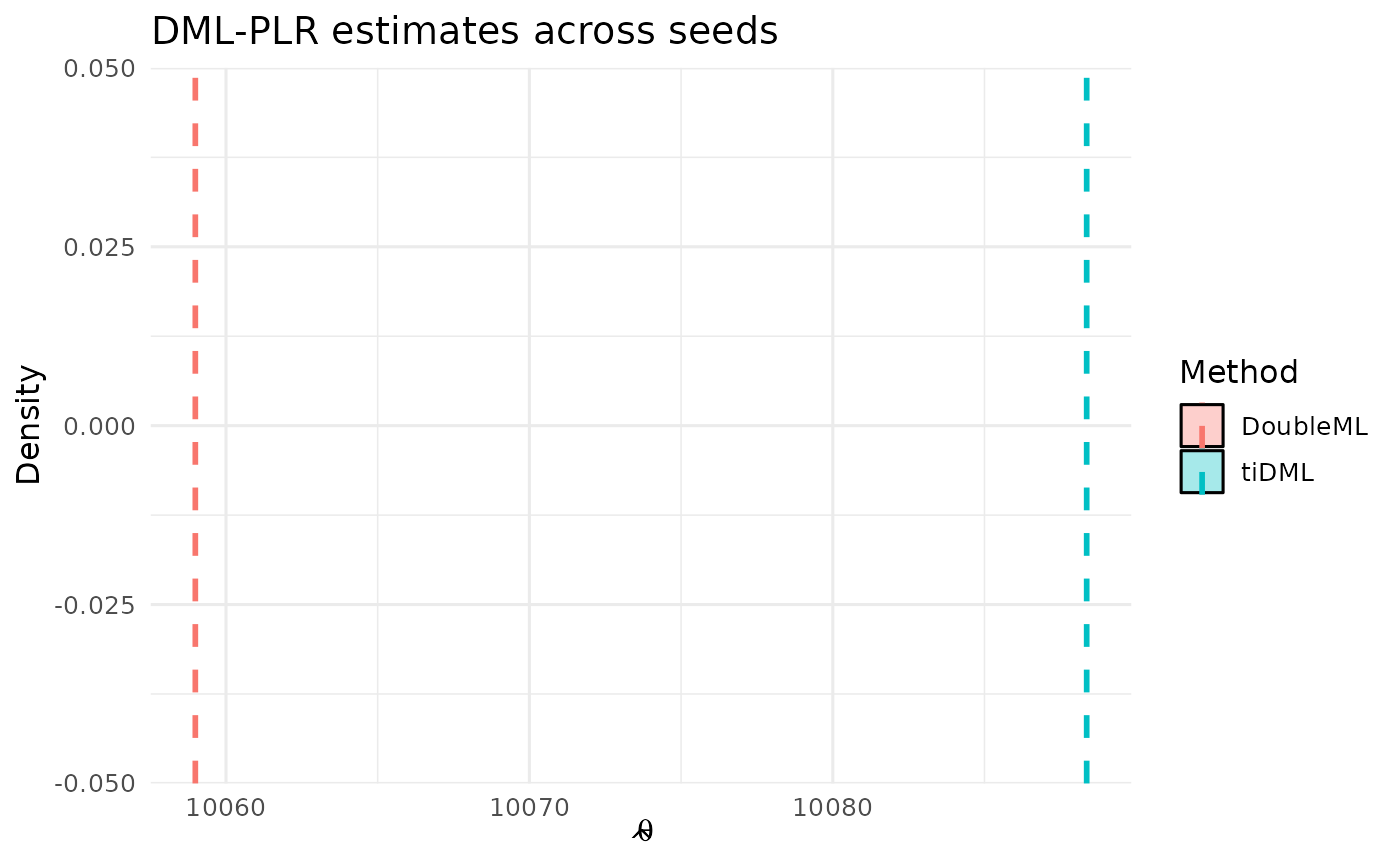
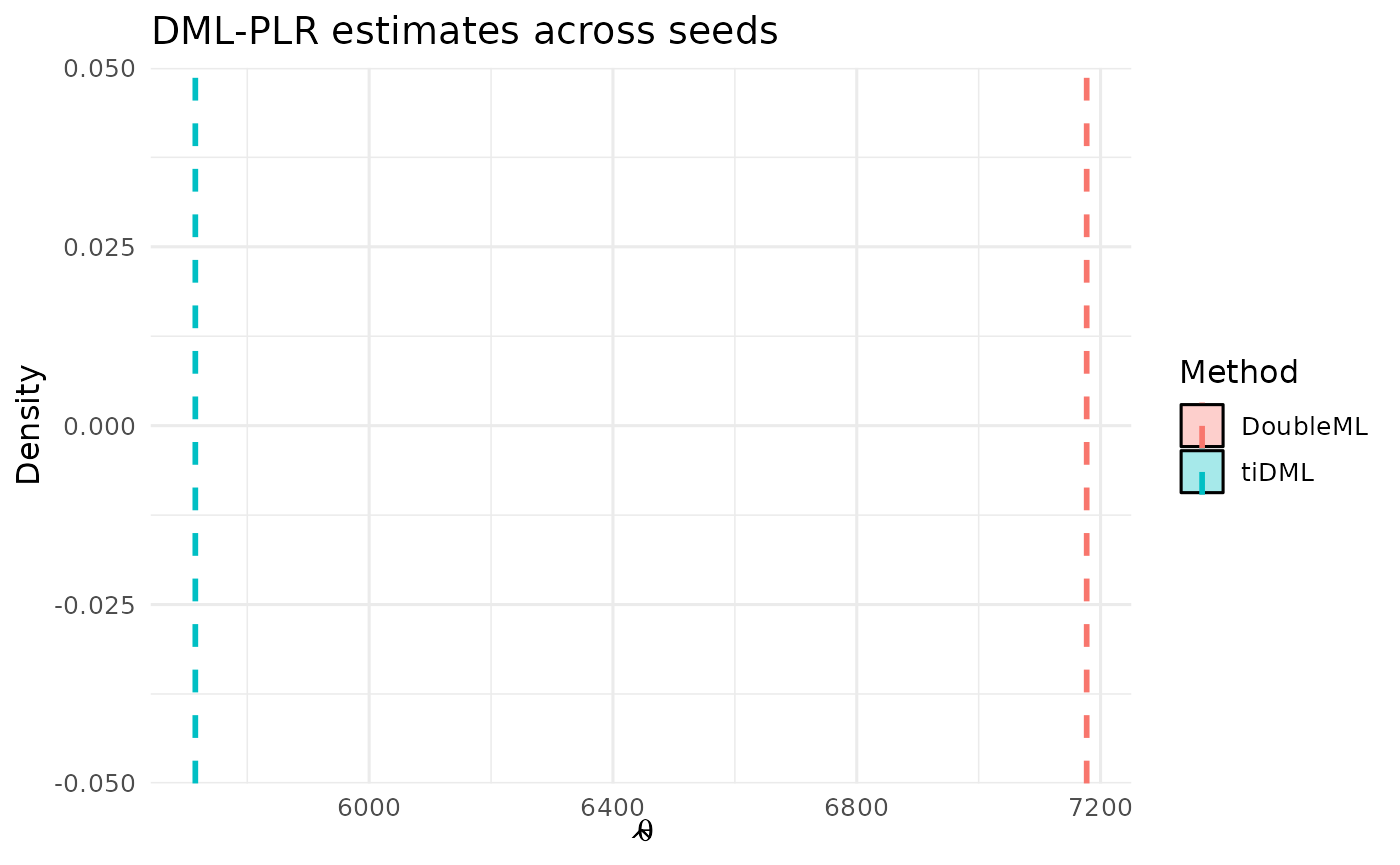
Deploying to gh-pages from @ jberesford-fe/tiDML@927d3ba213c65b5c6e1c258e8f15b4693d7bd3ad 🚀

diff --git a/articles/package-replication.html b/articles/package-replication.html
@@ -34,7 +34,6 @@
 
     <div id="navbar" class="collapse navbar-collapse ms-3">
       <ul class="navbar-nav me-auto">
-<li class="nav-item"><a class="nav-link" href="../articles/tiDML.html">Get started</a></li>
 <li class="nav-item"><a class="nav-link" href="../reference/index.html">Reference</a></li>
 <li class="active nav-item dropdown">
   <button class="nav-link dropdown-toggle" type="button" id="dropdown-articles" data-bs-toggle="dropdown" aria-expanded="false" aria-haspopup="true">Articles</button>
@@ -104,7 +103,7 @@ specifications.</p>
 <span><span class="kw"><a href="https://rdrr.io/r/base/library.html" class="external-link">library</a></span><span class="op">(</span><span class="va"><a href="https://mlr3learners.mlr-org.com" class="external-link">mlr3learners</a></span><span class="op">)</span></span>
 <span></span>
 <span><span class="va">df401k</span> <span class="op">&lt;-</span> <span class="fu">DoubleML</span><span class="fu">::</span><span class="fu"><a href="https://rdrr.io/pkg/DoubleML/man/fetch_401k.html" class="external-link">fetch_401k</a></span><span class="op">(</span>return_type <span class="op">=</span> <span class="st">"data.frame"</span>, instrument <span class="op">=</span> <span class="cn">FALSE</span><span class="op">)</span> <span class="op">|&gt;</span></span>
-<span>  <span class="fu"><a href="https://dplyr.tidyverse.org/reference/sample_n.html" class="external-link">sample_n</a></span><span class="op">(</span><span class="fl">5000</span>, replace <span class="op">=</span> <span class="cn">FALSE</span>, seed <span class="op">=</span> <span class="fl">123</span><span class="op">)</span></span>
+<span>  <span class="fu"><a href="https://dplyr.tidyverse.org/reference/sample_n.html" class="external-link">sample_n</a></span><span class="op">(</span><span class="fl">500</span>, replace <span class="op">=</span> <span class="cn">FALSE</span>, seed <span class="op">=</span> <span class="fl">123</span><span class="op">)</span></span>
 <span></span>
 <span><span class="va">y_col</span>  <span class="op">&lt;-</span> <span class="st">"net_tfa"</span>   <span class="co"># or "tw" depending on the example</span></span>
 <span><span class="va">d_col</span>  <span class="op">&lt;-</span> <span class="st">"e401"</span></span>
@@ -226,8 +225,8 @@ frame.</p>
 <span><span class="co">#&gt; <span style="color: #949494;"># A tibble: 2 × 5</span></span></span>
 <span><span class="co">#&gt;   method   mean_theta mean_se mean_lwr mean_upr</span></span>
 <span><span class="co">#&gt;   <span style="color: #949494; font-style: italic;">&lt;chr&gt;</span>         <span style="color: #949494; font-style: italic;">&lt;dbl&gt;</span>   <span style="color: #949494; font-style: italic;">&lt;dbl&gt;</span>    <span style="color: #949494; font-style: italic;">&lt;dbl&gt;</span>    <span style="color: #949494; font-style: italic;">&lt;dbl&gt;</span></span></span>
-<span><span class="co">#&gt; <span style="color: #BCBCBC;">1</span> DoubleML     <span style="text-decoration: underline;">10</span>059.   <span style="text-decoration: underline;">2</span>063.    <span style="text-decoration: underline;">6</span>015.   <span style="text-decoration: underline;">14</span>103.</span></span>
-<span><span class="co">#&gt; <span style="color: #BCBCBC;">2</span> tiDML        <span style="text-decoration: underline;">10</span>088.   <span style="text-decoration: underline;">2</span>055.    <span style="text-decoration: underline;">6</span>060.   <span style="text-decoration: underline;">14</span>117.</span></span>
+<span><span class="co">#&gt; <span style="color: #BCBCBC;">1</span> DoubleML      <span style="text-decoration: underline;">7</span>177.   <span style="text-decoration: underline;">9</span>623.  -<span style="color: #BB0000; text-decoration: underline;">11</span><span style="color: #BB0000;">683.</span>   <span style="text-decoration: underline;">26</span>037.</span></span>
+<span><span class="co">#&gt; <span style="color: #BCBCBC;">2</span> tiDML         <span style="text-decoration: underline;">5</span>715.  <span style="text-decoration: underline;">10</span>040.  -<span style="color: #BB0000; text-decoration: underline;">13</span><span style="color: #BB0000;">963.</span>   <span style="text-decoration: underline;">25</span>393.</span></span>
 <span></span>
 <span><span class="co"># T-Test for difference in means</span></span>
 <span><span class="co">#print(t.test(theta ~ method, data = res))</span></span>

diff --git a/articles/random-forest.html b/articles/random-forest.html
@@ -34,7 +34,6 @@
 
     <div id="navbar" class="collapse navbar-collapse ms-3">
       <ul class="navbar-nav me-auto">
-<li class="nav-item"><a class="nav-link" href="../articles/tiDML.html">Get started</a></li>
 <li class="nav-item"><a class="nav-link" href="../reference/index.html">Reference</a></li>
 <li class="active nav-item dropdown">
   <button class="nav-link dropdown-toggle" type="button" id="dropdown-articles" data-bs-toggle="dropdown" aria-expanded="false" aria-haspopup="true">Articles</button>
@@ -107,7 +106,7 @@
 <h2 id="random-forest-with-default-settings">Random forest with default settings<a class="anchor" aria-label="anchor" href="#random-forest-with-default-settings"></a>
 </h2>
 <div class="sourceCode" id="cb2"><pre class="downlit sourceCode r">
-<code class="sourceCode R"><span><span class="va">df</span> <span class="op">&lt;-</span> <span class="fu"><a href="../reference/diamonds_sample.html">diamonds_sample</a></span><span class="op">(</span><span class="op">)</span></span>
+<code class="sourceCode R"><span><span class="va">df</span> <span class="op">&lt;-</span> <span class="fu"><a href="../reference/diamonds_sample.html">diamonds_sample</a></span><span class="op">(</span>n<span class="op">=</span><span class="fl">500</span><span class="op">)</span></span>
 <span></span>
 <span><span class="va">fit_rf</span> <span class="op">&lt;-</span> <span class="fu"><a href="../reference/dml_rf.html">dml_rf</a></span><span class="op">(</span></span>
 <span>  data <span class="op">=</span> <span class="va">df</span>,</span>
@@ -120,7 +119,7 @@
 <span><span class="co">#&gt; <span style="color: #949494;"># A tibble: 1 × 6</span></span></span>
 <span><span class="co">#&gt;   term               estimate std.error conf.low conf.high vcov_type</span></span>
 <span><span class="co">#&gt;   <span style="color: #949494; font-style: italic;">&lt;chr&gt;</span>                 <span style="color: #949494; font-style: italic;">&lt;dbl&gt;</span>     <span style="color: #949494; font-style: italic;">&lt;dbl&gt;</span>    <span style="color: #949494; font-style: italic;">&lt;dbl&gt;</span>     <span style="color: #949494; font-style: italic;">&lt;dbl&gt;</span> <span style="color: #949494; font-style: italic;">&lt;chr&gt;</span>    </span></span>
-<span><span class="co">#&gt; <span style="color: #BCBCBC;">1</span> is_rated_idealTRUE     224.      45.4     135.      313. HC2</span></span></code></pre></div>
+<span><span class="co">#&gt; <span style="color: #BCBCBC;">1</span> is_rated_idealTRUE     149.      165.    -<span style="color: #BB0000;">174.</span>      472. HC2</span></span></code></pre></div>
 </div>
 <div class="section level2">
 <h2 id="random-forest-with-custom-settings">Random Forest with custom settings<a class="anchor" aria-label="anchor" href="#random-forest-with-custom-settings"></a>
@@ -146,7 +145,7 @@ the type of robust standard errors to use (choice of “HC0”, “HC1”,
 <span><span class="co">#&gt; <span style="color: #949494;"># A tibble: 1 × 6</span></span></span>
 <span><span class="co">#&gt;   term               estimate std.error conf.low conf.high vcov_type</span></span>
 <span><span class="co">#&gt;   <span style="color: #949494; font-style: italic;">&lt;chr&gt;</span>                 <span style="color: #949494; font-style: italic;">&lt;dbl&gt;</span>     <span style="color: #949494; font-style: italic;">&lt;dbl&gt;</span>    <span style="color: #949494; font-style: italic;">&lt;dbl&gt;</span>     <span style="color: #949494; font-style: italic;">&lt;dbl&gt;</span> <span style="color: #949494; font-style: italic;">&lt;chr&gt;</span>    </span></span>
-<span><span class="co">#&gt; <span style="color: #BCBCBC;">1</span> is_rated_idealTRUE     200.      45.1     111.      288. HC2</span></span></code></pre></div>
+<span><span class="co">#&gt; <span style="color: #BCBCBC;">1</span> is_rated_idealTRUE     187.      154.    -<span style="color: #BB0000;">114.</span>      487. HC2</span></span></code></pre></div>
 </div>
   </main><aside class="col-md-3"><nav id="toc" aria-label="Table of contents"><h2>On this page</h2>
     </nav></aside>

diff --git a/articles/examine-outputs.html b/articles/examine-outputs.html
@@ -34,7 +34,6 @@
 
     <div id="navbar" class="collapse navbar-collapse ms-3">
       <ul class="navbar-nav me-auto">
-<li class="nav-item"><a class="nav-link" href="../articles/tiDML.html">Get started</a></li>
 <li class="nav-item"><a class="nav-link" href="../reference/index.html">Reference</a></li>
 <li class="active nav-item dropdown">
   <button class="nav-link dropdown-toggle" type="button" id="dropdown-articles" data-bs-toggle="dropdown" aria-expanded="false" aria-haspopup="true">Articles</button>
@@ -241,7 +240,7 @@ This combines pre-processing (<code>recipes</code>) and model fitting
 <span><span class="co">#&gt; $mtry</span></span>
 <span><span class="co">#&gt; <span style="font-weight: bold;">&lt;quosure&gt;</span></span></span>
 <span><span class="co">#&gt; expr: <span style="color: #0000BB;">^mtry_g</span></span></span>
-<span><span class="co">#&gt; env:  <span style="color: #0000BB;">0x563335a9a908</span></span></span>
+<span><span class="co">#&gt; env:  <span style="color: #0000BB;">0x5581826665a0</span></span></span>
 <span><span class="co">#&gt; </span></span>
 <span><span class="co">#&gt; $trees</span></span>
 <span><span class="co">#&gt; <span style="font-weight: bold;">&lt;quosure&gt;</span></span></span>

diff --git a/reference/dml_nnet.html b/reference/dml_nnet.html
@@ -17,8 +17,7 @@ and normalizes numeric predictors (recommended for NNs)."><meta property="og:ima
     </button>
 
     <div id="navbar" class="collapse navbar-collapse ms-3">
-      <ul class="navbar-nav me-auto"><li class="nav-item"><a class="nav-link" href="../articles/tiDML.html">Get started</a></li>
-<li class="active nav-item"><a class="nav-link" href="../reference/index.html">Reference</a></li>
+      <ul class="navbar-nav me-auto"><li class="active nav-item"><a class="nav-link" href="../reference/index.html">Reference</a></li>
 <li class="nav-item dropdown">
   <button class="nav-link dropdown-toggle" type="button" id="dropdown-articles" data-bs-toggle="dropdown" aria-expanded="false" aria-haspopup="true">Articles</button>
   <ul class="dropdown-menu" aria-labelledby="dropdown-articles"><li><hr class="dropdown-divider"></li>

diff --git a/reference/diamonds_sample.html b/reference/diamonds_sample.html
@@ -15,8 +15,7 @@
     </button>
 
     <div id="navbar" class="collapse navbar-collapse ms-3">
-      <ul class="navbar-nav me-auto"><li class="nav-item"><a class="nav-link" href="../articles/tiDML.html">Get started</a></li>
-<li class="active nav-item"><a class="nav-link" href="../reference/index.html">Reference</a></li>
+      <ul class="navbar-nav me-auto"><li class="active nav-item"><a class="nav-link" href="../reference/index.html">Reference</a></li>
 <li class="nav-item dropdown">
   <button class="nav-link dropdown-toggle" type="button" id="dropdown-articles" data-bs-toggle="dropdown" aria-expanded="false" aria-haspopup="true">Articles</button>
   <ul class="dropdown-menu" aria-labelledby="dropdown-articles"><li><hr class="dropdown-divider"></li>

diff --git a/reference/dml_core_wf.html b/reference/dml_core_wf.html
@@ -15,8 +15,7 @@
     </button>
 
     <div id="navbar" class="collapse navbar-collapse ms-3">
-      <ul class="navbar-nav me-auto"><li class="nav-item"><a class="nav-link" href="../articles/tiDML.html">Get started</a></li>
-<li class="active nav-item"><a class="nav-link" href="../reference/index.html">Reference</a></li>
+      <ul class="navbar-nav me-auto"><li class="active nav-item"><a class="nav-link" href="../reference/index.html">Reference</a></li>
 <li class="nav-item dropdown">
   <button class="nav-link dropdown-toggle" type="button" id="dropdown-articles" data-bs-toggle="dropdown" aria-expanded="false" aria-haspopup="true">Articles</button>
   <ul class="dropdown-menu" aria-labelledby="dropdown-articles"><li><hr class="dropdown-divider"></li>

diff --git a/reference/dml_rf.html b/reference/dml_rf.html
@@ -15,8 +15,7 @@
     </button>
 
     <div id="navbar" class="collapse navbar-collapse ms-3">
-      <ul class="navbar-nav me-auto"><li class="nav-item"><a class="nav-link" href="../articles/tiDML.html">Get started</a></li>
-<li class="active nav-item"><a class="nav-link" href="../reference/index.html">Reference</a></li>
+      <ul class="navbar-nav me-auto"><li class="active nav-item"><a class="nav-link" href="../reference/index.html">Reference</a></li>
 <li class="nav-item dropdown">
   <button class="nav-link dropdown-toggle" type="button" id="dropdown-articles" data-bs-toggle="dropdown" aria-expanded="false" aria-haspopup="true">Articles</button>
   <ul class="dropdown-menu" aria-labelledby="dropdown-articles"><li><hr class="dropdown-divider"></li>

diff --git a/reference/index.html b/reference/index.html
@@ -15,8 +15,7 @@
     </button>
 
     <div id="navbar" class="collapse navbar-collapse ms-3">
-      <ul class="navbar-nav me-auto"><li class="nav-item"><a class="nav-link" href="../articles/tiDML.html">Get started</a></li>
-<li class="active nav-item"><a class="nav-link" href="../reference/index.html">Reference</a></li>
+      <ul class="navbar-nav me-auto"><li class="active nav-item"><a class="nav-link" href="../reference/index.html">Reference</a></li>
 <li class="nav-item dropdown">
   <button class="nav-link dropdown-toggle" type="button" id="dropdown-articles" data-bs-toggle="dropdown" aria-expanded="false" aria-haspopup="true">Articles</button>
   <ul class="dropdown-menu" aria-labelledby="dropdown-articles"><li><hr class="dropdown-divider"></li>

diff --git a/reference/make_folds.html b/reference/make_folds.html
@@ -15,8 +15,7 @@
     </button>
 
     <div id="navbar" class="collapse navbar-collapse ms-3">
-      <ul class="navbar-nav me-auto"><li class="nav-item"><a class="nav-link" href="../articles/tiDML.html">Get started</a></li>
-<li class="active nav-item"><a class="nav-link" href="../reference/index.html">Reference</a></li>
+      <ul class="navbar-nav me-auto"><li class="active nav-item"><a class="nav-link" href="../reference/index.html">Reference</a></li>
 <li class="nav-item dropdown">
   <button class="nav-link dropdown-toggle" type="button" id="dropdown-articles" data-bs-toggle="dropdown" aria-expanded="false" aria-haspopup="true">Articles</button>
   <ul class="dropdown-menu" aria-labelledby="dropdown-articles"><li><hr class="dropdown-divider"></li>

diff --git a/reference/make_folds_stratified.html b/reference/make_folds_stratified.html
@@ -15,8 +15,7 @@
     </button>
 
     <div id="navbar" class="collapse navbar-collapse ms-3">
-      <ul class="navbar-nav me-auto"><li class="nav-item"><a class="nav-link" href="../articles/tiDML.html">Get started</a></li>
-<li class="active nav-item"><a class="nav-link" href="../reference/index.html">Reference</a></li>
+      <ul class="navbar-nav me-auto"><li class="active nav-item"><a class="nav-link" href="../reference/index.html">Reference</a></li>
 <li class="nav-item dropdown">
   <button class="nav-link dropdown-toggle" type="button" id="dropdown-articles" data-bs-toggle="dropdown" aria-expanded="false" aria-haspopup="true">Articles</button>
   <ul class="dropdown-menu" aria-labelledby="dropdown-articles"><li><hr class="dropdown-divider"></li>

diff --git a/reference/oob_error.html b/reference/oob_error.html
@@ -15,8 +15,7 @@
     </button>
 
     <div id="navbar" class="collapse navbar-collapse ms-3">
-      <ul class="navbar-nav me-auto"><li class="nav-item"><a class="nav-link" href="../articles/tiDML.html">Get started</a></li>
-<li class="active nav-item"><a class="nav-link" href="../reference/index.html">Reference</a></li>
+      <ul class="navbar-nav me-auto"><li class="active nav-item"><a class="nav-link" href="../reference/index.html">Reference</a></li>
 <li class="nav-item dropdown">
   <button class="nav-link dropdown-toggle" type="button" id="dropdown-articles" data-bs-toggle="dropdown" aria-expanded="false" aria-haspopup="true">Articles</button>
   <ul class="dropdown-menu" aria-labelledby="dropdown-articles"><li><hr class="dropdown-divider"></li>

diff --git a/reference/oof_crossfit.html b/reference/oof_crossfit.html
@@ -15,8 +15,7 @@
     </button>
 
     <div id="navbar" class="collapse navbar-collapse ms-3">
-      <ul class="navbar-nav me-auto"><li class="nav-item"><a class="nav-link" href="../articles/tiDML.html">Get started</a></li>
-<li class="active nav-item"><a class="nav-link" href="../reference/index.html">Reference</a></li>
+      <ul class="navbar-nav me-auto"><li class="active nav-item"><a class="nav-link" href="../reference/index.html">Reference</a></li>
 <li class="nav-item dropdown">
   <button class="nav-link dropdown-toggle" type="button" id="dropdown-articles" data-bs-toggle="dropdown" aria-expanded="false" aria-haspopup="true">Articles</button>
   <ul class="dropdown-menu" aria-labelledby="dropdown-articles"><li><hr class="dropdown-divider"></li>
